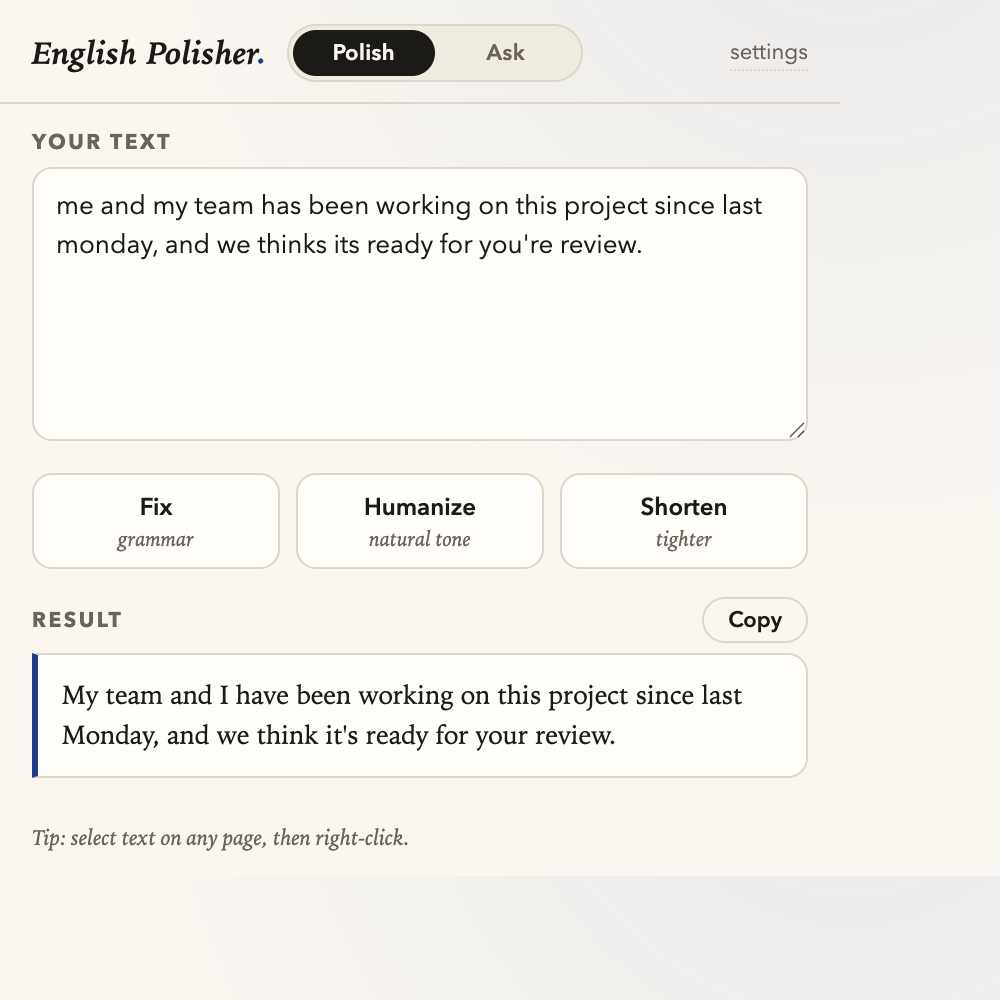
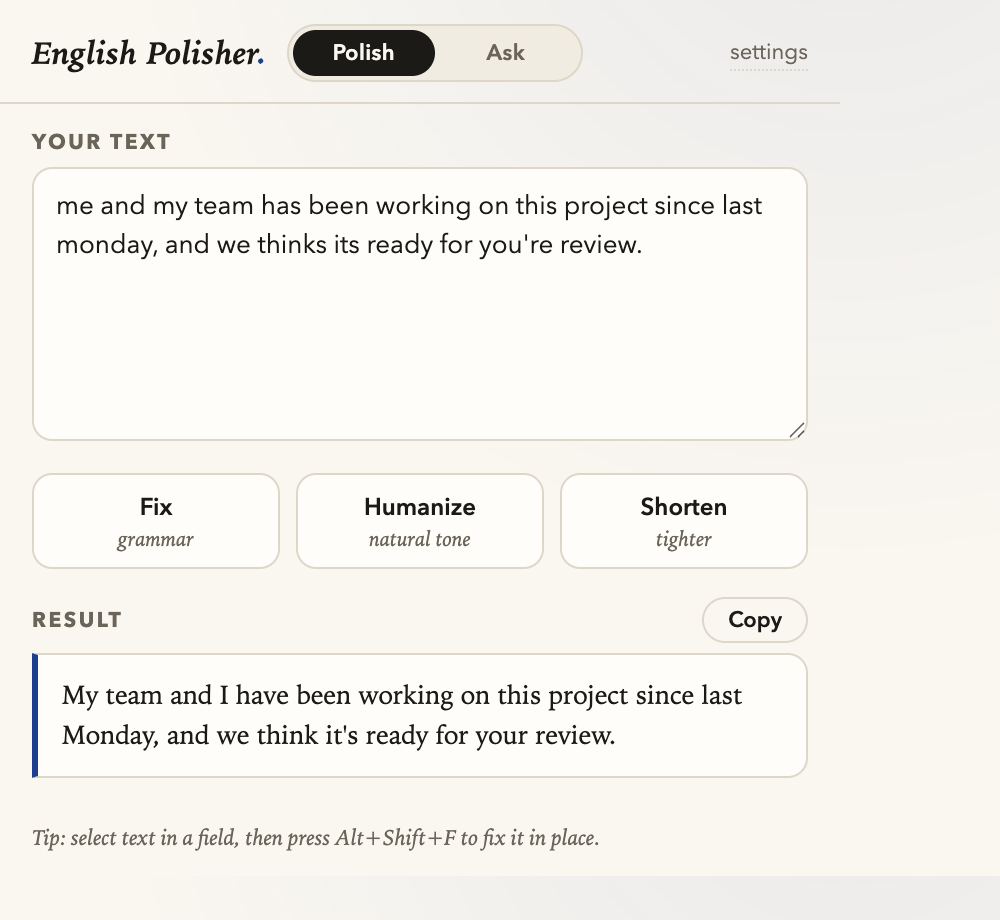
Add Chrome Web Store submission kit + fix popup footer
- PRIVACY.md (store-required privacy policy) and STORE_LISTING.md (listing copy,
  permission justifications, data-usage answers)
- build-zip.sh to package only the runtime files for upload
- store/ assets: two 1280x800 screenshots + 440x280 promo tile
- manifest: add homepage_url
- popup: footer referenced the removed right-click mode; now points to the shortcut
- refresh README screenshots and add a Publishing section

diff --git a/popup.html b/popup.html
@@ -194,7 +194,7 @@
     </div>
   </main>
 
-  <footer>Tip: select text on any page, then right-click.</footer>
+  <footer>Tip: select text in a field, then press Alt+Shift+F to fix it in place.</footer>
 
   <script src="popup.js"></script>
 </body>

diff --git a/STORE_LISTING.md b/STORE_LISTING.md
@@ -1,0 +1,101 @@
+# Chrome Web Store — submission kit
+
+Everything you need to paste into the Chrome Web Store Developer Dashboard when
+publishing English Polisher. (This file is documentation, not part of the
+shipped extension.)
+
+## Before you start
+
+1. Create a developer account at https://chrome.google.com/webstore/devconsole
+   (one-time **$5** registration fee, any Google account).
+2. Build the upload package: run `./build-zip.sh` → produces `english-polisher-<version>.zip`.
+3. Host the privacy policy: the raw URL of `PRIVACY.md` works, e.g.
+   `https://github.com/driss7/english-polisher/blob/main/PRIVACY.md`
+
+## Listing fields
+
+**Name**
+
+```
+English Polisher
+```
+
+**Summary** (short description, max 132 chars)
+
+```
+Fix your grammar or rewrite text to sound human — powered by free AI (Gemini, Chrome built-in AI, Groq, OpenRouter) or Claude.
+```
+
+**Category**: Productivity
+**Language**: English
+
+**Detailed description**
+
+```
+English Polisher cleans up your writing or drafts it for you — without leaving the page.
+
+POLISH MODE
+Paste or select text and choose one:
+• Fix — corrects grammar, spelling, and punctuation while keeping your meaning and tone
+• Humanize — rewrites stiff, robotic, or AI-sounding text so it reads like a real person
+• Shorten — makes it tighter and clearer
+
+ASK MODE
+Give a plain instruction like "reply to this email" or "write a short bio," and
+optionally paste the email or notes as context. Get a natural, human-sounding draft
+you can copy or insert.
+
+IN-PLACE EDITING
+Select text in any editable field (Gmail, comment boxes, text areas) and press a
+keyboard shortcut to replace it — with undo.
+
+FREE TO RUN
+• Google Gemini free tier — no credit card required
+• Chrome's built-in AI (Gemini Nano) — runs entirely on your device, no key, no data leaves your machine
+• Also supports Groq, OpenRouter, and Anthropic Claude
+
+PRIVATE BY DESIGN
+No accounts, no analytics, no backend. Your API key is stored in your browser and
+your text is sent only to the AI provider you choose (or nowhere at all with the
+on-device model).
+
+You bring an API key from your chosen provider; the extension is free and open source.
+```
+
+## Single purpose (required statement)
+
+```
+English Polisher has one purpose: to improve or generate text with an AI model the
+user configures — fixing grammar, rewriting for tone, shortening, or drafting from
+an instruction.
+```
+
+## Permission justifications
+
+Paste these into the corresponding fields in the dashboard.
+
+- **storage** — Stores the user's chosen AI provider, model, style preferences, and API key locally in the browser.
+- **activeTab** — Reads the user's current text selection on the active tab only when they invoke the extension (keyboard shortcut), so it can rewrite it.
+- **scripting** — Injects the content script into the active tab when needed to capture the selection and replace it in place.
+- **Host permissions** (`generativelanguage.googleapis.com`, `api.groq.com`, `openrouter.ai`, `api.anthropic.com`) — The extension sends the user's text to whichever of these AI provider APIs the user configured, in order to return a rewrite. No other hosts are contacted.
+- **Content script on all sites** — In-place editing (fix/humanize a selection with a shortcut) must work in text fields on any website the user is typing on.
+
+## Data usage disclosures (Privacy practices tab)
+
+- Does the extension collect user data? **Yes** — "Website content" (the text the user submits for rewriting) and "Authentication information" (the API key).
+- Is data sold to third parties? **No.**
+- Is data used for anything other than the single purpose? **No.**
+- Is data transferred? **Yes** — the submitted text is sent to the user-selected AI provider to perform the rewrite. (With the on-device Chrome built-in AI option, no data is transferred.)
+- Uses remote code? **No** — all logic ships in the package; the extension only calls JSON APIs.
+- Privacy policy URL: `https://github.com/driss7/english-polisher/blob/main/PRIVACY.md`
+
+## Store assets (in ./store)
+
+- **Icon**: `icons/icon128.png` (128×128) — auto-used from the package.
+- **Screenshots** (1280×800): `store/screenshot-1.png`, `store/screenshot-2.png`. At least one is required.
+- **Small promo tile** (440×280, optional): `store/promo-small.png`.
+
+## Submit
+
+Upload the ZIP, fill the fields above, attach the screenshots, set visibility
+(Public / Unlisted / Private), and submit for review.

diff --git a/PRIVACY.md b/PRIVACY.md
@@ -1,0 +1,61 @@
+# Privacy Policy — English Polisher
+
+_Last updated: 2026-07-04_
+
+English Polisher is a browser extension that fixes and rewrites text using an AI
+provider of your choice. This policy explains what data it handles and where that
+data goes. It is written to be read, not to hide behind legalese.
+
+## The short version
+
+- The extension has **no backend server** of its own and collects **no analytics**.
+- It sends the text you choose to polish/rewrite **only** to the AI provider you
+  configure — and to **nobody else**.
+- If you use **Chrome's built-in AI (Gemini Nano)**, your text never leaves your
+  device at all.
+- Your **API key** is stored locally in your browser profile and is used only to
+  authenticate your requests to your chosen provider.
+
+## What data the extension handles
+
+**Text you submit.** When you run Fix / Humanize / Shorten, or use Ask mode, the
+text (and any context you provide) is sent to the AI provider you selected in the
+extension's settings, over an HTTPS request, so it can return a rewrite. The
+extension does not store your text after the request completes.
+
+**Your API key.** The key you paste in settings is stored using Chrome's
+`storage.sync` API (so it syncs across your own signed-in Chrome browsers). It is
+sent only to the matching provider's API endpoint as an authentication header. It
+is never transmitted anywhere else and is never seen by the author of this
+extension.
+
+**Your preferences.** Your selected provider, model, and optional style
+instructions are stored the same way (`storage.sync`).
+
+The extension does **not** collect names, emails, browsing history, analytics,
+telemetry, or advertising identifiers.
+
+## Where your data goes
+
+Depending on the provider you choose, your submitted text is sent to that
+provider and is subject to that provider's own privacy policy:
+
+- **Google Gemini** — https://ai.google.dev/gemini-api/terms and https://policies.google.com/privacy
+- **Chrome built-in AI (Gemini Nano)** — runs locally on your device; text is not sent anywhere
+- **Groq** — https://groq.com/privacy-policy/
+- **OpenRouter** — https://openrouter.ai/privacy
+- **Anthropic Claude** — https://www.anthropic.com/legal/privacy
+
+You control which provider is used, and you can switch or remove it at any time in
+the extension's settings.
+
+## Data retention
+
+The extension itself retains only your settings and API key locally, until you
+change or clear them (removing the extension deletes them). It does not keep copies
+of the text you rewrite. Any retention of request data on the provider side is
+governed by that provider's policy, linked above.
+
+## Contact
+
+Questions or issues: https://github.com/driss7/english-polisher/issues

diff --git a/README.md b/README.md
@@ -94,6 +94,8 @@ In settings you can add standing instructions applied to every rewrite, e.g. *"K
 - **Your text** is sent only to the provider you configure — except **Chrome built-in AI**, which runs entirely on your device and sends nothing.
 - The extension has no analytics and no backend of its own.
 
+See the full [privacy policy](PRIVACY.md).
+
 ## Project structure
 
 ```
@@ -116,6 +118,17 @@ There is no build step — it's plain HTML/CSS/JS loaded directly by Chrome.
 3. For content-script changes (keyboard shortcuts), also refresh any open tabs.
 
 Adding a provider is a matter of adding a `case` to `rewrite()` in `background.js` and a settings block in `options.html`.
+
+## Publishing to the Chrome Web Store
+
+The repo is submission-ready:
+
+- Run `./build-zip.sh` to produce `english-polisher-<version>.zip` (only the files Chrome runs).
+- [`STORE_LISTING.md`](STORE_LISTING.md) has the ready-to-paste listing copy, permission justifications, and data-usage answers.
+- [`PRIVACY.md`](PRIVACY.md) is the privacy policy the store requires.
+- `store/` contains the 1280×800 screenshots and a 440×280 promo tile.
+
+Publishing itself needs a [Chrome Web Store developer account](https://chrome.google.com/webstore/devconsole) (one-time $5 fee): upload the ZIP, paste the listing, attach the screenshots, and submit for review.
 
 ## License
 